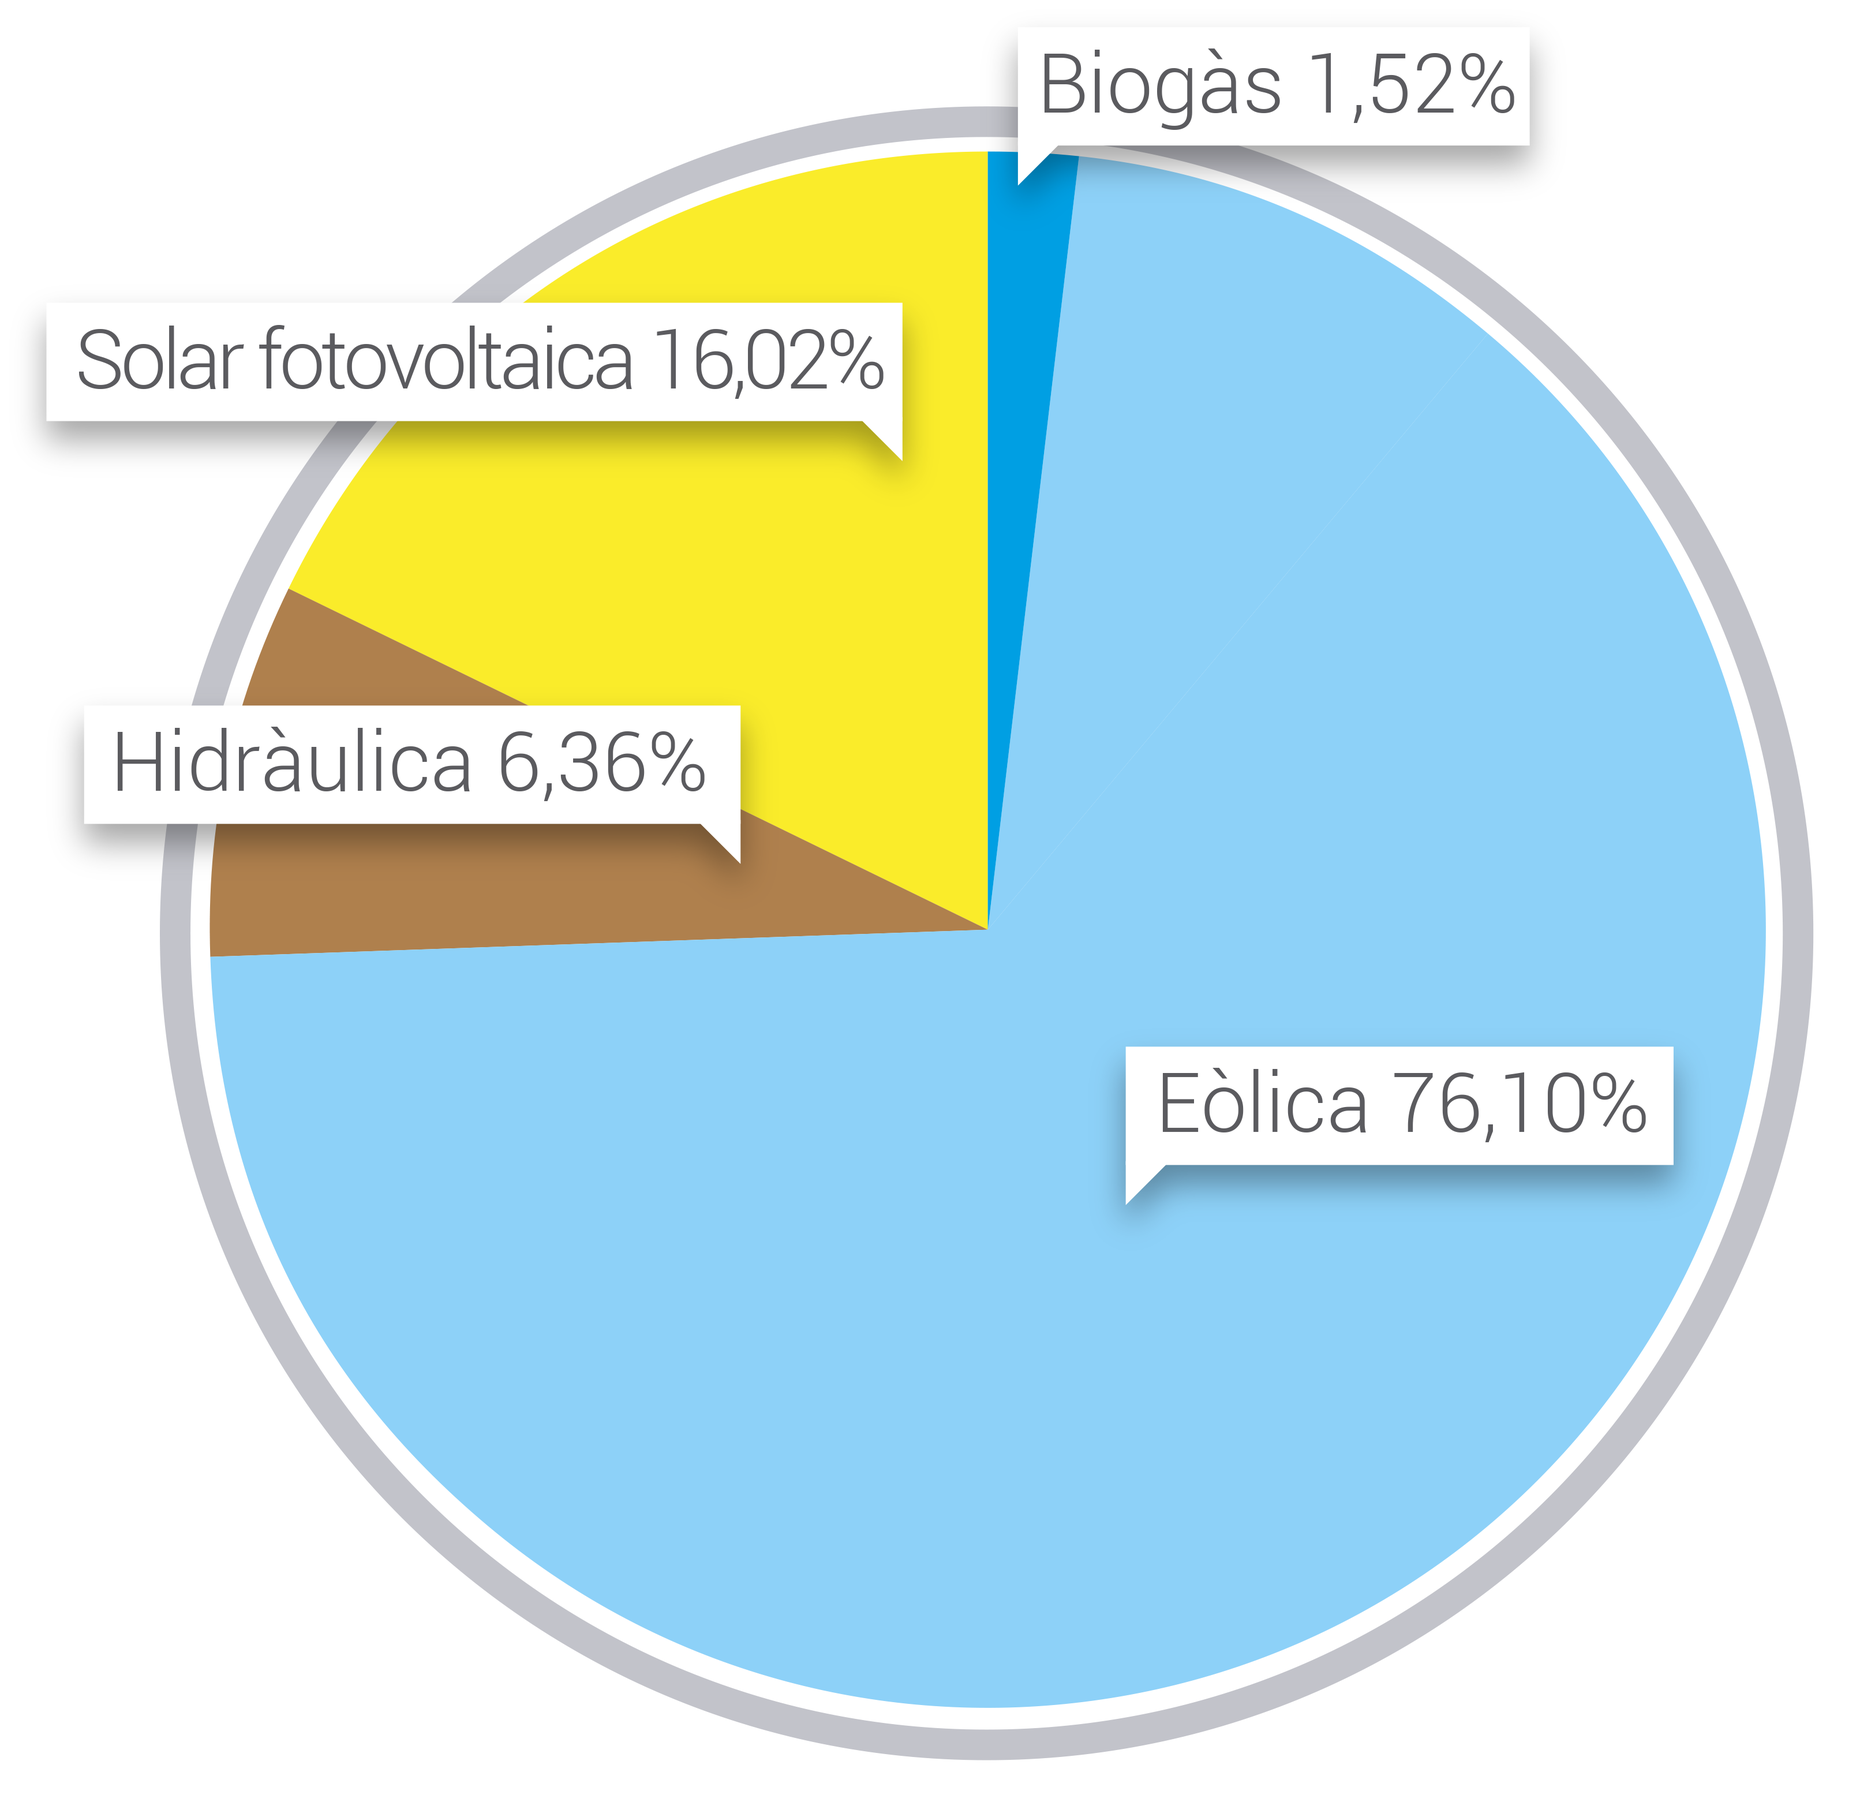
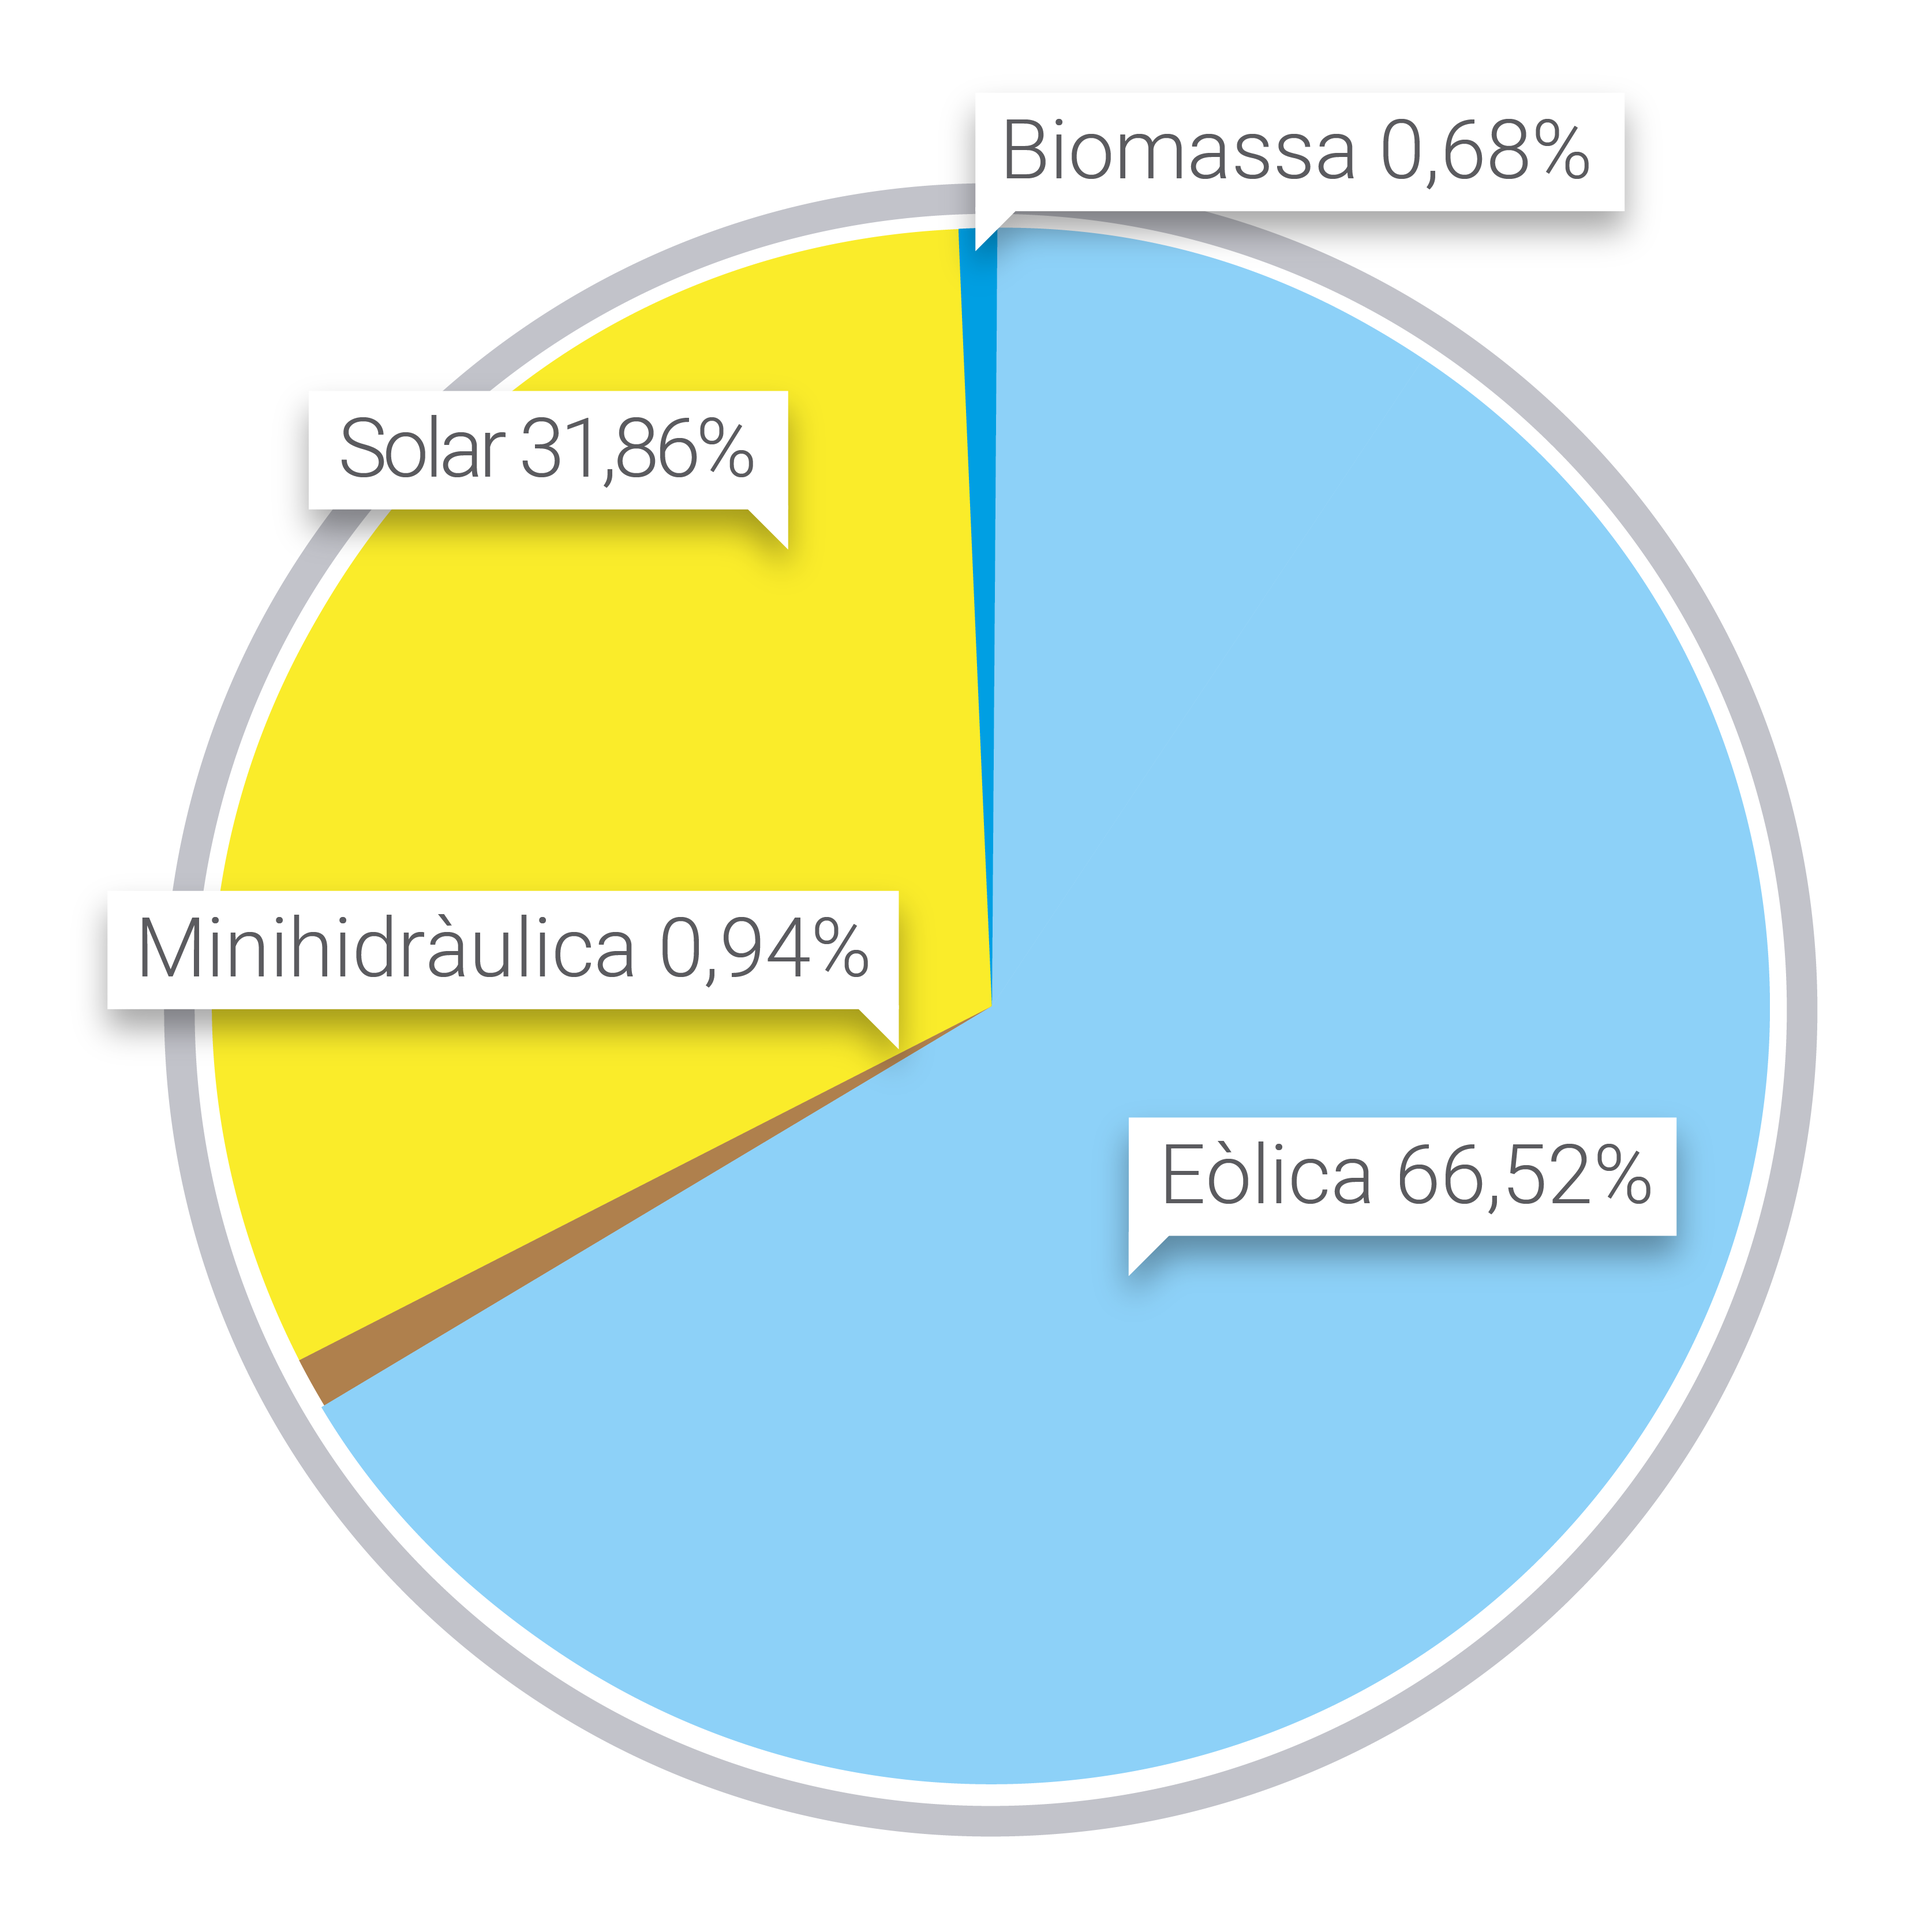
Replace global variable by configuration, fix places where this date is necessary

Changed region(s): [[0.0, 0.0311, 0.9929, 0.9942]]

diff --git a/giscedata_facturacio_comer_som/giscedata_facturacio_report.py b/giscedata_facturacio_comer_som/giscedata_facturacio_report.py
@@ -25,8 +25,6 @@ BOE17_2021_dates = {
 
 factors_kp_change_calculation_date = '2021-10-18'
 
-environment_impact_BOE_A2021_20574 = '2022-04-01'
-
 # -----------------------------------
 # helper functions
 # -----------------------------------
@@ -763,26 +761,32 @@ class GiscedataFacturacioFacturaReport(osv.osv):
         """
         lang = fact.lang_partner.lower()[0:2]
 
-        example_data_2021 = """{
+        example_data_2020 = """{
                 'wind_power': 359390,
                 'photovoltaic': 75672,
                 'hydraulics': 30034,
                 'biogas': 7194,
                 'total': 472290,
                 'lang': lang,
-                'graph': 'gdo_graf_{}_2021.png'.format(lang),
-                'year': 2021}"""
+                'graph': 'gdo_graf_{}_2020.png'.format(lang),
+                'year': 2020}"""
 
         conf_obj = fact.pool.get('res.config')
-        gdo_som = conf_obj.get(self.cursor, self.uid, 'component_gdo_data', example_data_2021)
-        try:
-            gdo_som = eval(gdo_som)
-            gdo_som = json.dumps(gdo_som)
-            data = json.loads(gdo_som)
-            data['lang'] = lang
-            data['graph'] = 'gdo_graf_{}_{}.png'.format(lang, data['year'])
-        except Exception as e:
-            data = json.loads(example_data_2021)
+
+        swich_date = conf_obj.get(self.cursor, self.uid, 'gdo_and_impact_yearly_switch_date', '2099-05-01')
+
+        if fact.date_invoice < swich_date:
+            data = json.loads(example_data_2020)
+        else:
+            gdo_som = conf_obj.get(self.cursor, self.uid, 'component_gdo_data', example_data_2020)
+            try:
+                gdo_som = eval(gdo_som)
+                gdo_som = json.dumps(gdo_som)
+                data = json.loads(gdo_som)
+                data['lang'] = lang
+                data['graph'] = 'gdo_graf_{}_{}.png'.format(lang, data['year'])
+            except Exception as e:
+                data = json.loads(example_data_2020)
 
         return data
 
@@ -1434,8 +1438,12 @@ class GiscedataFacturacioFacturaReport(osv.osv):
         return data
 
     def get_component_environmental_impact_data(self, fact, pol):
+
+        conf_obj = fact.pool.get('res.config')
+        swich_date = conf_obj.get(self.cursor, self.uid, 'gdo_and_impact_yearly_switch_date', '2099-05-01')
+
         data = {
-            'is_visible': fact.date_invoice < environment_impact_BOE_A2021_20574,
+            'is_visible': fact.date_invoice < swich_date,
             'c02_emissions': {
                     'national_average': '0,15',
                     'som_energia': '0,00',
@@ -1447,8 +1455,12 @@ class GiscedataFacturacioFacturaReport(osv.osv):
         return data
 
     def get_component_electricity_information_data(self, fact, pol):
+
+        conf_obj = fact.pool.get('res.config')
+        swich_date = conf_obj.get(self.cursor, self.uid, 'gdo_and_impact_yearly_switch_date', '2099-05-01')
+
         data = {
-            'is_visible': fact.date_invoice < environment_impact_BOE_A2021_20574,
+            'is_visible': fact.date_invoice < swich_date,
             'year_graph': 2020,
             'is_inport': True,
             'inport_export_value': 1.3,
@@ -2632,7 +2644,7 @@ class GiscedataFacturacioFacturaReport(osv.osv):
         return data
 
     def get_component_simplified_enviromental_impact_data(self, fact, pol):
-        example_mitjana_2021 = """{
+        example_mitjana_2020 = """{
             'renovable': 4.9,
             'cae': 4.9,
             'gasNatural': 21.5,
@@ -2642,8 +2654,8 @@ class GiscedataFacturacioFacturaReport(osv.osv):
             'altres': 7.7,
             'emisionCo2': 204,
             'residuRadio': 530,
-            'year': '2021'}"""
-        example_som_2021 = """{
+            'year': '2020'}"""
+        example_som_2020 = """{
             'renovable': 100.0,
             'cae': 0.0,
             'gasNatural': 0.0,
@@ -2653,25 +2665,29 @@ class GiscedataFacturacioFacturaReport(osv.osv):
             'altres': 0.0,
             'emisionCo2': 0,
             'residuRadio': 0,
-            'year': '2021'}"""
+            'year': '2020'}"""
 
-        data = {'is_visible': fact.date_invoice >= environment_impact_BOE_A2021_20574}
+
         conf_obj = fact.pool.get('res.config')
-        seid_som = conf_obj.get(self.cursor, self.uid, 'som_environmental_impact_data', example_som_2021)
+        swich_date = conf_obj.get(self.cursor, self.uid, 'gdo_and_impact_yearly_switch_date', '2099-05-01')
+
+        data = {'is_visible': fact.date_invoice >= swich_date}
+
+        seid_som = conf_obj.get(self.cursor, self.uid, 'som_environmental_impact_data', example_som_2020)
         try:
             seid_som = eval(seid_som)
             seid_som = json.dumps(seid_som)
             data['som'] = json.loads(seid_som)
         except Exception as e:
-            data['som'] = json.loads(example_som_2021)
+            data['som'] = json.loads(example_som_2020)
 
-        seid_mit = conf_obj.get(self.cursor, self.uid, 'mitjana_environmental_impact_data', example_mitjana_2021)
+        seid_mit = conf_obj.get(self.cursor, self.uid, 'mitjana_environmental_impact_data', example_mitjana_2020)
         try:
             seid_mit = eval(seid_mit)
             seid_mit = json.dumps(seid_mit)
             data['mitjana'] = json.loads(seid_mit)
         except Exception as e:
-            data['mitjana'] = json.loads(example_mitjana_2021)
+            data['mitjana'] = json.loads(example_mitjana_2020)
 
         return data
 
